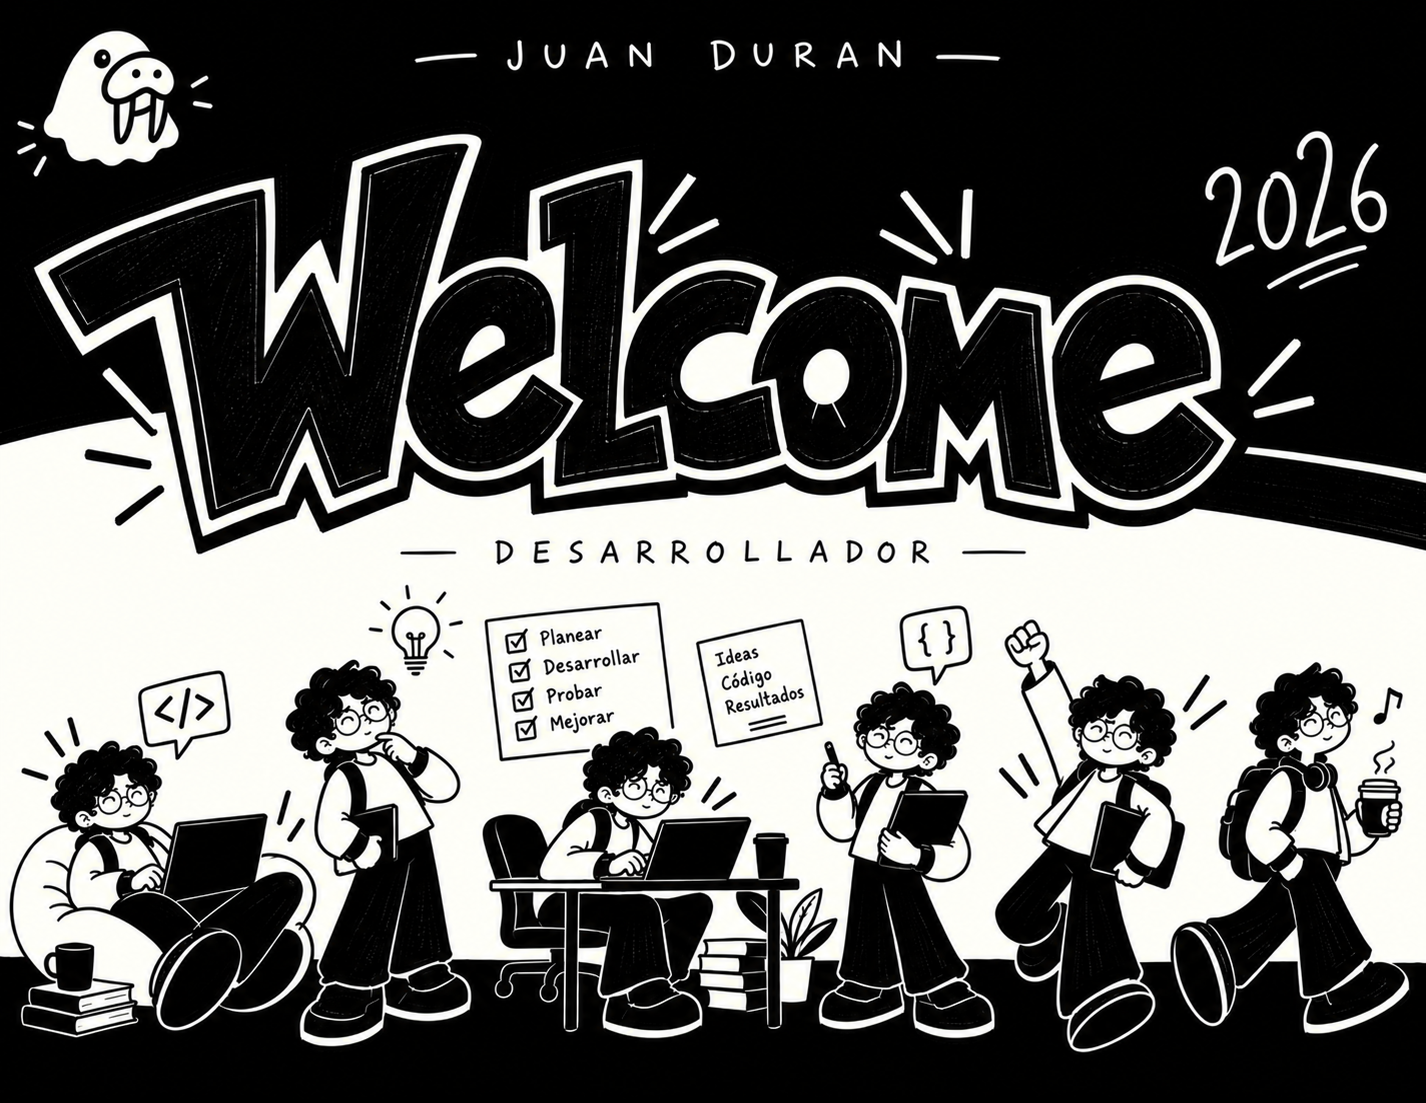
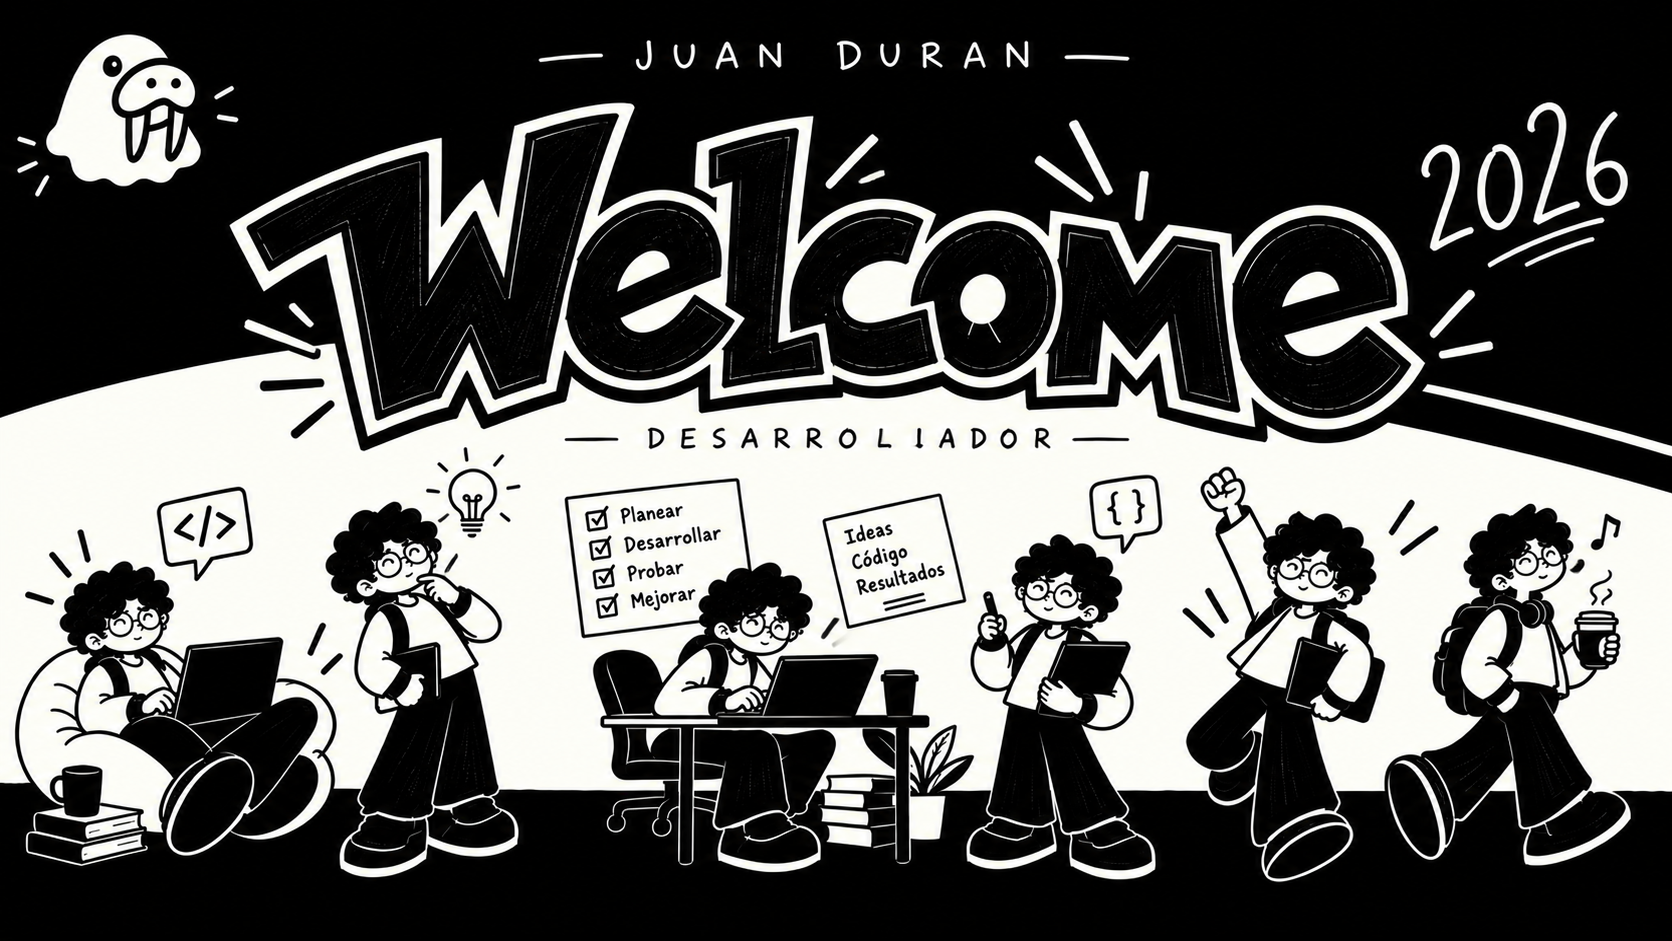
Actualizar portada y completar SEO técnico

diff --git a/index.html b/index.html
@@ -1,31 +1,98 @@
 <!doctype html>
-<html lang="es">
+<html lang="es-CO">
   <head>
     <meta charset="UTF-8" />
-    
     <link rel="icon" type="image/png" href="/Logo.png" />
-    
+    <link rel="canonical" href="https://portafolio-react-juan-david-duran-garzons-projects.vercel.app/" />
+    <link rel="manifest" href="/site.webmanifest" />
+    <link rel="preload" as="image" href="/images/web-pc-main.jpg" type="image/jpeg" media="(min-width: 701px)" />
+    <link rel="preload" as="image" href="/images/web-mobile-main.jpg" type="image/jpeg" media="(max-width: 700px)" />
+
     <meta name="viewport" content="width=device-width, initial-scale=1.0" />
-    
-    <title>Juan David Durán Garzón | Desarrollo de software y sistemas</title>
-    
-    <meta name="description" content="Portafolio de Juan David Durán Garzón: proyectos de software, datos, interacción, arquitectura web y sistemas." />
-    
+    <title>Juan David Durán | Desarrollador de software en Colombia</title>
+    <meta name="description" content="Portafolio de Juan David Durán, desarrollador de software e ingeniero de sistemas en Colombia. Proyectos de React, Python, datos, SaaS y visión por computador." />
+    <meta name="author" content="Juan David Durán Garzón" />
+    <meta name="robots" content="index, follow, max-image-preview:large, max-snippet:-1, max-video-preview:-1" />
+    <meta name="googlebot" content="index, follow, max-image-preview:large, max-snippet:-1, max-video-preview:-1" />
+    <meta name="referrer" content="strict-origin-when-cross-origin" />
+    <meta name="theme-color" content="#111111" />
+    <meta name="color-scheme" content="light dark" />
+
     <meta name="google-site-verification" content="oObV7UFRuZpTFTeDH3NU5X7yeBO0B2Ig6odXk1pIQXE" />
 
-    <meta name="keywords" content="Juan David Durán Garzón, desarrollador de software, ingeniero de sistemas, React, Python, Colombia" />
-    
-    <meta name="author" content="Juan David Duran Garzon" />
-
     <meta property="og:type" content="website" />
-    <meta property="og:title" content="Juan David Durán Garzón | Portafolio" />
-    <meta property="og:description" content="Software útil para problemas que importan: producto, datos e ingeniería." />
-    <meta property="og:image" content="/images/Hero.png" />
-    
+    <meta property="og:locale" content="es_CO" />
+    <meta property="og:locale:alternate" content="en_US" />
+    <meta property="og:site_name" content="Portafolio de Juan David Durán" />
+    <meta property="og:title" content="Juan David Durán | Desarrollo de software y sistemas" />
+    <meta property="og:description" content="Software útil para problemas que importan. Explora proyectos de producto, datos, SaaS, interacción y visión por computador." />
+    <meta property="og:url" content="https://portafolio-react-juan-david-duran-garzons-projects.vercel.app/" />
+    <meta property="og:image" content="https://portafolio-react-juan-david-duran-garzons-projects.vercel.app/images/web-pc-main.jpg" />
+    <meta property="og:image:secure_url" content="https://portafolio-react-juan-david-duran-garzons-projects.vercel.app/images/web-pc-main.jpg" />
+    <meta property="og:image:type" content="image/jpeg" />
+    <meta property="og:image:width" content="1672" />
+    <meta property="og:image:height" content="941" />
+    <meta property="og:image:alt" content="Portada ilustrada del portafolio de Juan David Durán" />
+
     <meta name="twitter:card" content="summary_large_image" />
-    <meta name="twitter:title" content="Juan David Durán Garzón | Portafolio" />
-    <meta name="twitter:description" content="Proyectos de software, datos, interacción y sistemas." />
-    <meta name="theme-color" content="#f2f0e9" />
+    <meta name="twitter:title" content="Juan David Durán | Desarrollo de software y sistemas" />
+    <meta name="twitter:description" content="Portafolio de software, datos, SaaS, interacción y visión por computador." />
+    <meta name="twitter:image" content="https://portafolio-react-juan-david-duran-garzons-projects.vercel.app/images/web-pc-main.jpg" />
+    <meta name="twitter:image:alt" content="Portada ilustrada del portafolio de Juan David Durán" />
+
+    <script type="application/ld+json">
+      {
+        "@context": "https://schema.org",
+        "@graph": [
+          {
+            "@type": "Person",
+            "@id": "https://portafolio-react-juan-david-duran-garzons-projects.vercel.app/#person",
+            "name": "Juan David Durán Garzón",
+            "alternateName": "Juan Durán",
+            "url": "https://portafolio-react-juan-david-duran-garzons-projects.vercel.app/",
+            "image": "https://portafolio-react-juan-david-duran-garzons-projects.vercel.app/images/Cara.jpg",
+            "jobTitle": "Desarrollador de software e ingeniero de sistemas",
+            "homeLocation": {
+              "@type": "Place",
+              "name": "Ocaña, Colombia"
+            },
+            "sameAs": [
+              "https://github.com/DuranGarzonDev",
+              "https://www.linkedin.com/in/juangdev",
+              "https://instagram.com/jddurangarzon"
+            ],
+            "knowsAbout": [
+              "Desarrollo de software",
+              "React",
+              "Angular",
+              "Node.js",
+              "Python",
+              "Análisis de datos",
+              "Visión por computador",
+              "Arquitectura de software",
+              "Accesibilidad web"
+            ]
+          },
+          {
+            "@type": "WebSite",
+            "@id": "https://portafolio-react-juan-david-duran-garzons-projects.vercel.app/#website",
+            "url": "https://portafolio-react-juan-david-duran-garzons-projects.vercel.app/",
+            "name": "Portafolio de Juan David Durán",
+            "inLanguage": ["es-CO", "en"],
+            "publisher": { "@id": "https://portafolio-react-juan-david-duran-garzons-projects.vercel.app/#person" }
+          },
+          {
+            "@type": "ProfilePage",
+            "@id": "https://portafolio-react-juan-david-duran-garzons-projects.vercel.app/#profile",
+            "url": "https://portafolio-react-juan-david-duran-garzons-projects.vercel.app/",
+            "name": "Juan David Durán | Desarrollo de software y sistemas",
+            "isPartOf": { "@id": "https://portafolio-react-juan-david-duran-garzons-projects.vercel.app/#website" },
+            "mainEntity": { "@id": "https://portafolio-react-juan-david-duran-garzons-projects.vercel.app/#person" },
+            "inLanguage": "es-CO"
+          }
+        ]
+      }
+    </script>
   </head>
   <body>
     <div id="root"></div>

diff --git a/src/App.jsx b/src/App.jsx
@@ -15,7 +15,7 @@ export default function App() {
   const copy = content[language];
 
   useEffect(() => { document.documentElement.dataset.theme = theme; localStorage.setItem('portfolio-theme', theme); }, [theme]);
-  useEffect(() => { document.documentElement.lang = language; localStorage.setItem('portfolio-language', language); }, [language]);
+  useEffect(() => { document.documentElement.lang = language === 'es' ? 'es-CO' : 'en'; localStorage.setItem('portfolio-language', language); }, [language]);
 
   return <div className="site-shell">
     <a className="skip-link" href="#main">{copy.skip}</a>
